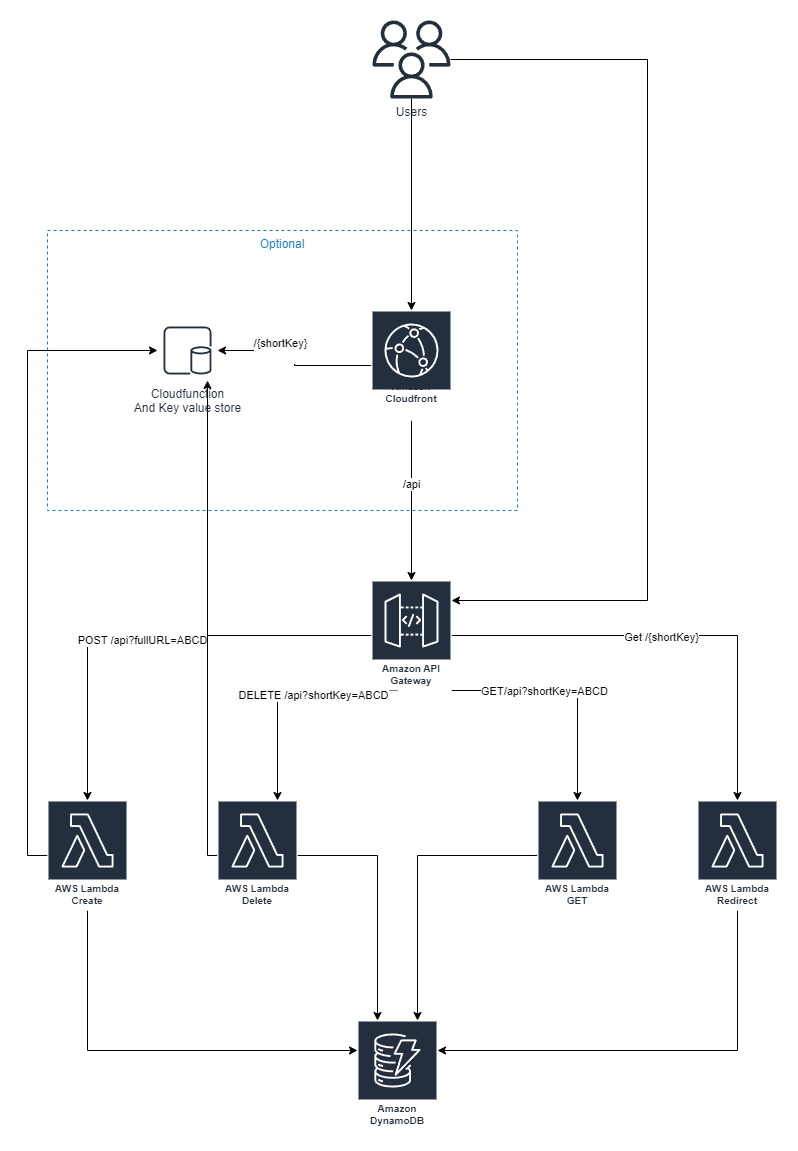
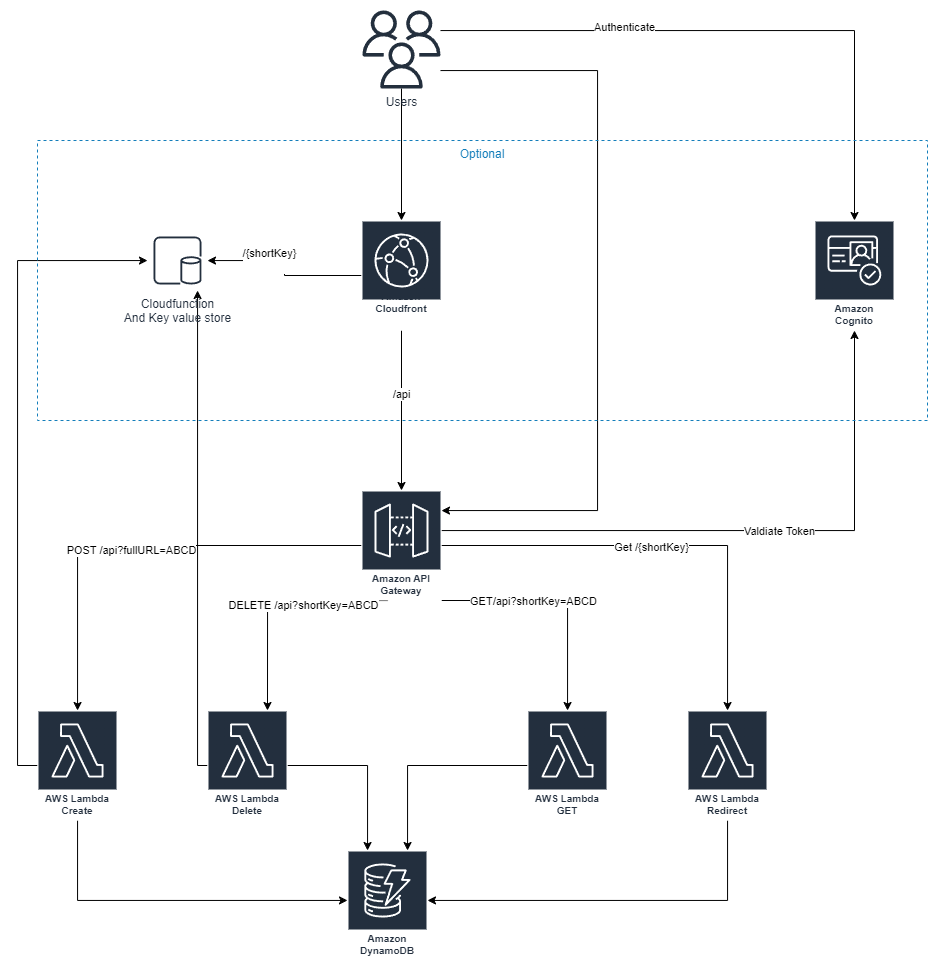
Add authentication to the api

diff --git a/api/src/urlShortenerDelete.py b/api/src/urlShortenerDelete.py
@@ -43,9 +43,9 @@ def lambda_handler(event, context):
         return {
                 "isBase64Encoded": False,
                 "statusCode": 400,
-                "body": json.dumps({"message": "shortedURL parameter is mandatory"}),
+                "body": json.dumps({"message": "shortKey parameter is mandatory"}),
             }
-    shortKey = event["queryStringParameters"]["shortedURL"]
+    shortKey = event["queryStringParameters"]["shortKey"]
    
     
     try:
@@ -61,7 +61,7 @@ def lambda_handler(event, context):
                 "isBase64Encoded": False,
                 "statusCode": 200,
                 "headers": { "Content-Type": "application/json"},
-                "body": json.dumps(body)
+                "body": body
         }
         
     return {
